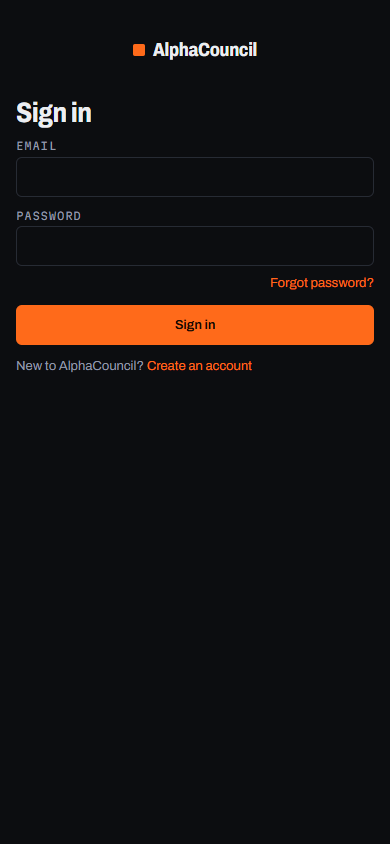
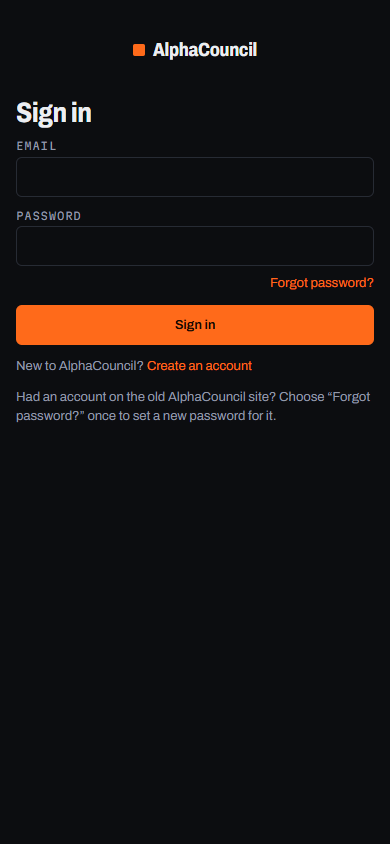
Old-site accounts imported on beta and alphacouncil.tech: checks and screenshots
Both run 5c36f7b335. Made-up accounts imported through the same code: check-imported 24/24 on
each (acceptance asked, refused without it, password saved, sign-in works), then removed.
check-reset 24/24 on beta, 20/20 on production. Old site: 3 accounts, none with an acceptance
on record. Imported: 3 on beta, 2 on production (the third already had an account there).

Changed region(s): [[0.0308, 0.4621, 0.9538, 0.5237]]

diff --git a/docs/account-import.md b/docs/account-import.md
@@ -61,10 +61,17 @@ cd web && BASE_URL=http://localhost:3201 STAGING_AUTH=… IMPORTED=imported-chec
 scripts/old-accounts.sh beta forget imported-check-     # remove the made-up accounts
 ```
 
-## Done
+## Done (2026-10-18)
+
+The old site had 3 accounts. None had a registration acceptance on record: its 7 acceptance rows all
+belong to accounts deleted earlier. All three are asked to accept when they set a password.
 
 | | Beta (`acp`) | Production (`acp_prod`) |
 |---|---|---|
-| Release | | |
-| Made-up check | | |
-| Old accounts imported | | |
+| Release | `5c36f7b335` | `5c36f7b335` |
+| Made-up check (`check-imported.mjs`) | 24/24, `screenshots/account-import-check-beta.txt` | 24/24, `screenshots/account-import-check-production.txt` |
+| Forgot password (`check-reset.mjs`) | 24/24 with a real reset on a test account | 20/20, unknown addresses only |
+| Old accounts imported | 3 | 2; the third already had an account here (signed up after the switch), left as it is |
+
+The made-up accounts were removed afterwards on both. The old file was only read: its size and time
+did not change, and the old backend kept running.
